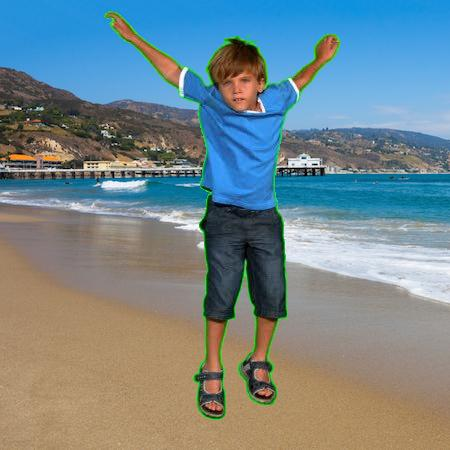
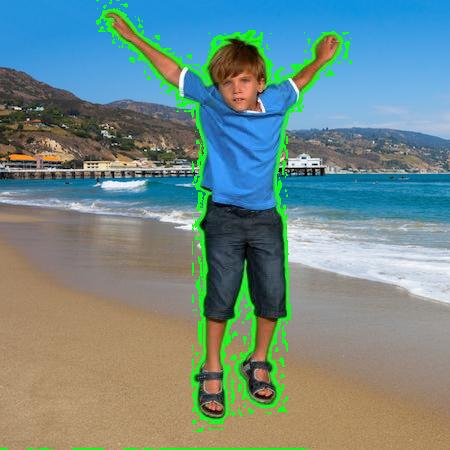
finished binarized image

Changed region(s): [[0.1867, 0.0, 0.7778, 0.9644], [0.1556, 0.9956, 0.7156, 1.0], [0.0, 0.9956, 0.1244, 1.0]]

diff --git a/Notes/images_problem.py b/Notes/images_problem.py
@@ -1,0 +1,66 @@
+# Images Problem 
+# Author: Roop 
+# Dec 18, 2023 
+
+from PIL import Image 
+
+def is_light(pixel: tuple) -> bool: 
+    """Returns true if the pixel is a "light" pixel
+    
+    Params: 
+        pixel - 3-tuple of values r, g, b
+    
+    red, green, blue = pixel 
+    """
+
+    red = pixel[0]
+    green = pixel[1]
+    blue = pixel[2]
+
+    average = (red + green + blue) / 3
+
+    if average >= 128: 
+        return True
+
+    else: 
+        return False
+    
+
+    return 
+
+# Test? 
+light_pixel = (255, 255, 255)
+light_gray = (128, 128, 128)
+dark_gray = (127, 127, 127)
+dark_pixel = (0, 0, 0)
+
+
+
+print(is_light(light_pixel))
+print(is_light(light_gray))
+print(is_light(dark_pixel))
+print(is_light(dark_gray))
+
+# Open up the image 
+
+# For every pixel in the image
+    # if the pixel is light 
+        # replace it with a light pixel 
+
+    # else 
+        # replace it with a dark pixel 
+
+# after visiting every pixel, save the image 
+
+with Image.open("./Images/catto (1).png") as im: 
+
+ for y in range(im.height):
+        for x in range(im.width):
+             pixel = im.getpixel((x, y))
+
+             if is_light(pixel): 
+                 im.putpixel((x, y), light_pixel)
+             else:
+                im.putpixel((x, y), dark_pixel)
+
+im.save("./Images/binarized.jpg")

diff --git a/images_example.py b/images_example.py
@@ -21,6 +21,26 @@ def pixel_to_name(pixel: tuple) -> str:
         return "unknown colour"
 
 with Image.open("./Images/kid-green.jpg") as im:
+    # grab the pixel at the top left corner
+
+    from PIL import Image
+
+#open up kid green
+
+def pixel_to_name(pixel: tuple) -> str:
+    """Given a pixel, return the name of the colour"""
+
+    # red less than 25
+    # blue less than 25
+    # green is more than 250
+    r, g, b = pixel
+
+    if r < 25 and b < 25 and g > 250:
+        return "green"
+    else:
+        return "unknown colour"
+
+with Image.open("./Images/kid-green.jpg") as im:
     # grab the pixel at the top left cornuh
     image_width, image_height = im.width, im.height
 
